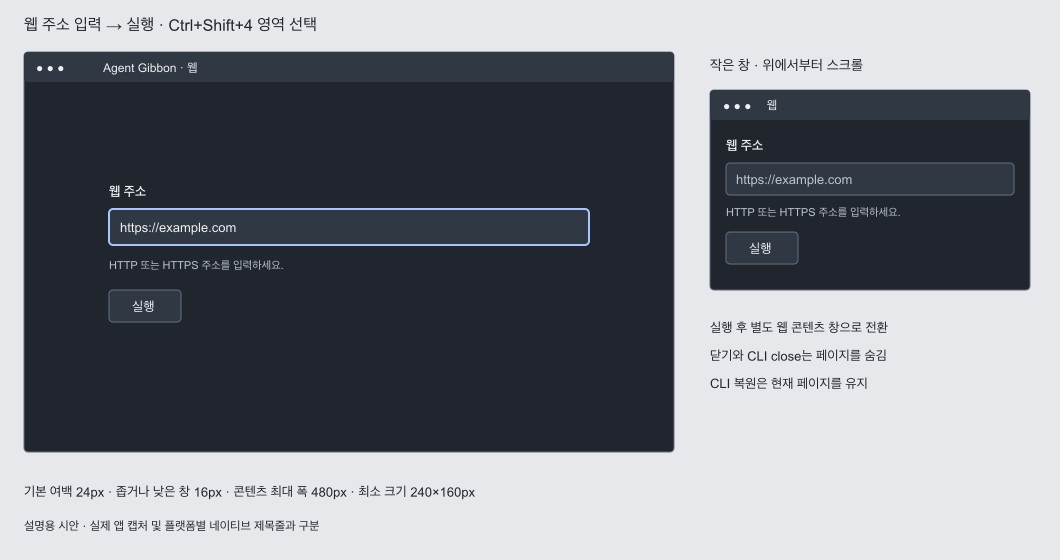
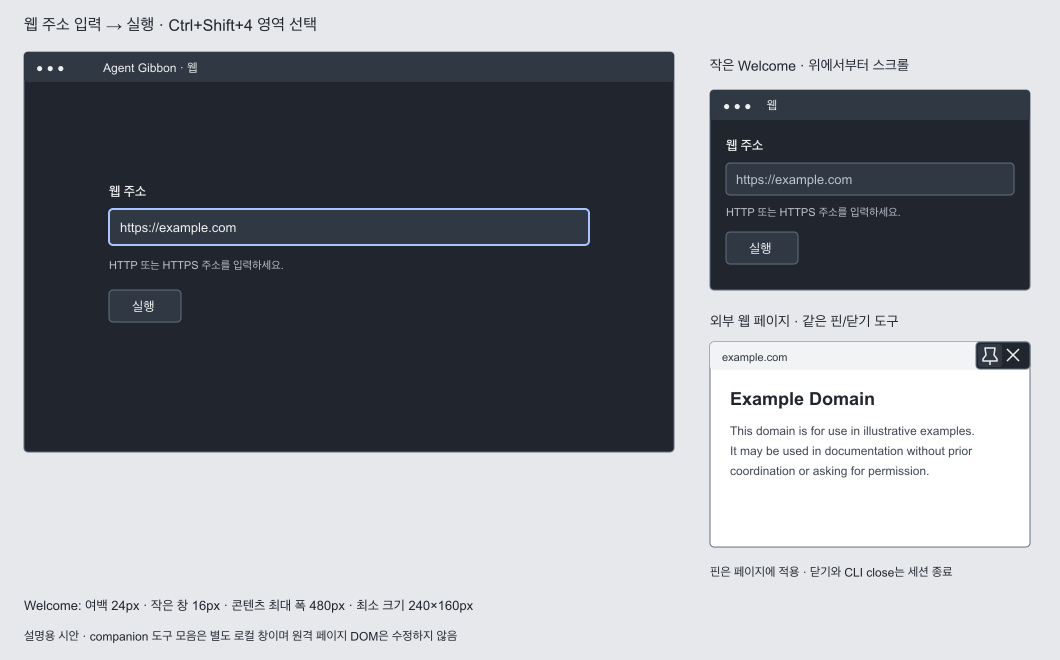
웹 창 핀 도구와 세션 종료 동작 추가
웹 Welcome과 외부 페이지에 로컬 companion 도구 모음을 제공하고 핀을 동기화한다. CLI·네이티브 닫기는 웹 세션과 연결 창을 종료한다. 로컬 WebView만 updater ACK를 수신하도록 권한과 안전성 검사를 갱신했다.

검증: npm test 통과, updater/web UI 테스트 통과, web Rust 단위 테스트 통과. 실앱 GUI는 별도 확인 필요.

diff --git a/ui/web.html b/ui/web.html
@@ -1,1 +1,1 @@
-<!doctype html><html lang="ko"><head><meta charset="utf-8"><meta name="viewport" content="width=device-width,initial-scale=1"><title>웹 시작</title><link rel="stylesheet" href="web.css"></head><body><main><form id="web-form"><label for="web-url">웹 주소</label><input id="web-url" type="url" placeholder="https://example.com" autocomplete="off" spellcheck="false" required aria-describedby="hint status"><p id="hint">HTTP 또는 HTTPS 주소를 입력하세요.</p><button id="run" type="submit">실행</button><p id="status" role="status" aria-live="polite"></p></form></main><script src="web.js"></script></body></html>
+<!doctype html><html lang="ko"><head><script src="updater-guard.js"></script><meta charset="utf-8"><meta name="viewport" content="width=device-width,initial-scale=1"><title>웹 시작</title><link rel="stylesheet" href="web.css"></head><body><main><form id="web-form"><label for="web-url">웹 주소</label><input id="web-url" type="url" placeholder="https://example.com" autocomplete="off" spellcheck="false" required aria-describedby="hint status"><p id="hint">HTTP 또는 HTTPS 주소를 입력하세요.</p><button id="run" type="submit">실행</button><p id="status" role="status" aria-live="polite"></p></form></main><script src="web.js"></script></body></html>

diff --git a/ui/web-toolbar.css b/ui/web-toolbar.css
@@ -1,0 +1,10 @@
+:root{color-scheme:dark;font:var(--font-ui)/var(--line-ui) -apple-system,BlinkMacSystemFont,"Segoe UI",sans-serif;color:#f0f0f0;background:transparent}
+*{box-sizing:border-box}
+html,body{width:100%;height:100%;margin:0;overflow:hidden;background:transparent}
+body{display:flex;justify-content:flex-end;align-items:flex-start;cursor:default}
+#toolbar{display:flex;gap:1px;padding:1px;border:1px solid #667080;border-radius:4px;background:#20252e;box-shadow:0 1px 4px rgb(0 0 0 / 24%)}
+button{display:inline-flex;align-items:center;justify-content:center;width:24px;height:23px;padding:2px;border:0;border-radius:var(--button-radius);color:inherit;background:transparent;cursor:pointer}
+button svg{width:var(--icon-size);height:var(--icon-size);fill:none;stroke:currentColor;stroke-width:1.7;stroke-linecap:round;stroke-linejoin:round}
+button:hover,button:focus-visible{background:#303844;outline:1px solid #a8c5ff;outline-offset:-1px}
+#pin[aria-pressed=true] svg path:first-child{fill:currentColor}
+#pin[aria-pressed=false] svg{transform:rotate(35deg)}

diff --git a/ui/web-toolbar.html b/ui/web-toolbar.html
@@ -1,0 +1,22 @@
+<!doctype html>
+<html lang="ko">
+<head>
+  <meta charset="utf-8">
+  <meta name="viewport" content="width=device-width,initial-scale=1">
+  <title>웹 도구</title>
+  <link rel="stylesheet" href="tokens.css">
+  <link rel="stylesheet" href="web-toolbar.css">
+  <script src="updater-guard.js"></script>
+</head>
+<body>
+  <div id="toolbar" role="toolbar" aria-label="웹 창 도구">
+    <button id="pin" aria-label="상단 고정" aria-pressed="true" title="상단 고정">
+      <svg viewBox="0 0 24 24" aria-hidden="true"><path d="M8 3h8l-1 7 4 4v2H5v-2l4-4-1-7Z"/><path d="M12 16v6"/></svg>
+    </button>
+    <button id="close" aria-label="웹 세션 닫기" title="웹 세션 닫기">
+      <svg viewBox="0 0 24 24" aria-hidden="true"><path d="m6 6 12 12M18 6 6 18"/></svg>
+    </button>
+  </div>
+  <script src="web-toolbar.js"></script>
+</body>
+</html>

diff --git a/ui/web-toolbar.js b/ui/web-toolbar.js
@@ -1,0 +1,18 @@
+(() => {
+  const invoke = window.gibbonInvoke || window.__TAURI__.core.invoke;
+  const pin = document.getElementById('pin');
+  const close = document.getElementById('close');
+  const report = error => { close.title = `웹 세션 처리 실패: ${String(error)}`; };
+  invoke('web_toolbar_info').then(info => {
+    pin.setAttribute('aria-pressed', String(info.always_on_top));
+  }).catch(report);
+  pin.addEventListener('click', async () => {
+    try {
+      const pinned = await invoke('web_toggle_pin');
+      pin.setAttribute('aria-pressed', String(pinned));
+    } catch (error) {
+      report(error);
+    }
+  });
+  close.addEventListener('click', () => invoke('web_close').catch(report));
+})();

diff --git a/src-tauri/src/web.rs b/src-tauri/src/web.rs
@@ -16,6 +16,15 @@ pub struct Windows(Mutex<BTreeMap<String, Record>>);
 fn err(e: impl std::fmt::Display) -> String {
     e.to_string()
 }
+fn toolbar_label(id: &str) -> String {
+    format!("webtoolbar-{id}")
+}
+fn web_id(label: &str) -> Option<&str> {
+    label
+        .strip_prefix("webview-")
+        .or_else(|| label.strip_prefix("webpage-"))
+        .or_else(|| label.strip_prefix("webtoolbar-"))
+}
 pub fn validate_url(input: &str) -> Result<tauri::Url, String> {
     let invalid = || "URL은 자격증명 없는 HTTP(S) 웹 주소여야 합니다".to_string();
     if input.is_empty()
@@ -86,7 +95,95 @@ fn show(w: &WebviewWindow) -> Result<(), String> {
     w.show().map_err(err)?;
     #[cfg(any(target_os = "macos", windows))]
     crate::focus::restore(w);
+    if let Some(id) = web_id(w.label()) {
+        if let Some(toolbar) = w.app_handle().get_webview_window(&toolbar_label(id)) {
+            sync_toolbar(w, &toolbar)?;
+        }
+    }
     Ok(())
+}
+
+fn sync_toolbar(parent: &WebviewWindow, toolbar: &WebviewWindow) -> Result<(), String> {
+    if !parent.is_visible().map_err(err)? || parent.is_minimized().map_err(err)? {
+        if toolbar.is_visible().map_err(err)? {
+            toolbar.hide().map_err(err)?;
+        }
+        return Ok(());
+    }
+    let parent_position = parent.inner_position().map_err(err)?;
+    let parent_size = parent.inner_size().map_err(err)?;
+    let toolbar_size = toolbar.outer_size().map_err(err)?;
+    let position = tauri::PhysicalPosition::new(
+        parent_position.x + parent_size.width as i32 - toolbar_size.width as i32,
+        parent_position.y,
+    );
+    if toolbar.outer_position().map_err(err)? != position {
+        toolbar.set_position(position).map_err(err)?;
+    }
+    let pinned = parent.is_always_on_top().map_err(err)?;
+    if toolbar.is_always_on_top().map_err(err)? != pinned {
+        toolbar.set_always_on_top(pinned).map_err(err)?;
+    }
+    if !toolbar.is_visible().map_err(err)? {
+        #[cfg(target_os = "macos")]
+        {
+            let ptr = toolbar.ns_window().map_err(err)?;
+            // SAFETY: Tauri owns the live companion window.
+            unsafe {
+                (&*(ptr as *const objc2_app_kit::NSWindow)).orderFrontRegardless();
+            }
+            crate::focus::restore(toolbar);
+        }
+        #[cfg(windows)]
+        crate::focus::show_without_focus(toolbar)?;
+        #[cfg(not(any(target_os = "macos", windows)))]
+        toolbar.show().map_err(err)?;
+    }
+    Ok(())
+}
+
+fn ensure_toolbar(app: &tauri::AppHandle, id: &str, parent: &WebviewWindow) -> Result<(), String> {
+    let label = toolbar_label(id);
+    if let Some(toolbar) = app.get_webview_window(&label) {
+        return sync_toolbar(parent, &toolbar);
+    }
+    crate::focus::remember(app, &label);
+    let toolbar =
+        tauri::WebviewWindowBuilder::new(app, &label, WebviewUrl::App("web-toolbar.html".into()))
+            .title(format!("웹 도구 — {id}"))
+            .inner_size(54.0, 27.0)
+            .decorations(false)
+            .transparent(true)
+            .resizable(false)
+            .visible(false)
+            .focused(false)
+            .skip_taskbar(true)
+            .accept_first_mouse(true)
+            .minimizable(false)
+            .maximizable(false)
+            .shadow(false)
+            .parent(parent)
+            .map_err(err)?
+            .build()
+            .map_err(err)?;
+    sync_toolbar(parent, &toolbar)
+}
+
+fn destroy_toolbar(app: &tauri::AppHandle, id: &str) -> Result<(), String> {
+    if let Some(toolbar) = app.get_webview_window(&toolbar_label(id)) {
+        toolbar.destroy().map_err(err)?;
+    }
+    Ok(())
+}
+
+pub fn geometry(window: &WebviewWindow) {
+    if let Some(id) = web_id(window.label()) {
+        if let Some(toolbar) = window.app_handle().get_webview_window(&toolbar_label(id)) {
+            if let Err(error) = sync_toolbar(window, &toolbar) {
+                eprintln!("웹 도구 모음 배치 실패: {error}");
+            }
+        }
+    }
 }
 pub fn create(
     app: &tauri::AppHandle,
@@ -117,6 +214,7 @@ pub fn create(
                 .get_webview_window(&r.label)
                 .ok_or("웹 창을 찾을 수 없습니다")?;
             show(&w)?;
+            ensure_toolbar(app, &id, &w)?;
             return inspect(app, &id);
         }
     }
@@ -136,6 +234,7 @@ pub fn create(
             .unwrap()
             .url = url.map(str::to_owned);
         show(w)?;
+        ensure_toolbar(app, &id, w)?;
         return inspect(app, &id);
     }
     crate::focus::remember(app, &label);
@@ -197,10 +296,74 @@ pub fn create(
         },
     );
     show(&w)?;
-    if let Some(p) = previous {
-        p.destroy().map_err(err)?;
+    if previous.is_some() {
+        destroy_toolbar(app, &id)?;
+        if let Some(p) = previous {
+            p.destroy().map_err(err)?;
+        }
     }
+    ensure_toolbar(app, &id, &w)?;
     inspect(app, &id)
+}
+
+pub fn close(app: &tauri::AppHandle, id: &str) -> Result<Value, String> {
+    let r = record(app, id)?;
+    let window = app
+        .get_webview_window(&r.label)
+        .ok_or("웹 창을 찾을 수 없습니다")?;
+    crate::stash::release(&window)?;
+    destroy_toolbar(app, id)?;
+    window.destroy().map_err(err)?;
+    app.state::<Windows>().0.lock().map_err(err)?.remove(id);
+    crate::tray::refresh(app)?;
+    Ok(
+        json!({"ok":true,"instance":crate::instance::current().id,"id":id,"kind":"web","visible":false,"closed":true}),
+    )
+}
+
+pub fn close_window(app: &tauri::AppHandle, label: &str) -> Result<Value, String> {
+    let id = web_id(label).ok_or("웹 창을 찾을 수 없습니다")?;
+    close(app, id)
+}
+
+#[tauri::command]
+pub fn web_toolbar_info(window: WebviewWindow) -> Result<Value, String> {
+    let id = window
+        .label()
+        .strip_prefix("webtoolbar-")
+        .ok_or("웹 도구 창이 아닙니다")?;
+    let record = record(window.app_handle(), id)?;
+    let owner = window
+        .app_handle()
+        .get_webview_window(&record.label)
+        .ok_or("웹 창을 찾을 수 없습니다")?;
+    Ok(json!({"id":id,"always_on_top":owner.is_always_on_top().map_err(err)?}))
+}
+
+#[tauri::command]
+pub fn web_toggle_pin(window: WebviewWindow) -> Result<bool, String> {
+    let id = window
+        .label()
+        .strip_prefix("webtoolbar-")
+        .ok_or("웹 도구 창이 아닙니다")?;
+    let record = record(window.app_handle(), id)?;
+    let owner = window
+        .app_handle()
+        .get_webview_window(&record.label)
+        .ok_or("웹 창을 찾을 수 없습니다")?;
+    let pinned = !owner.is_always_on_top().map_err(err)?;
+    owner.set_always_on_top(pinned).map_err(err)?;
+    window.set_always_on_top(pinned).map_err(err)?;
+    Ok(pinned)
+}
+
+#[tauri::command]
+pub fn web_close(window: WebviewWindow) -> Result<Value, String> {
+    let id = window
+        .label()
+        .strip_prefix("webtoolbar-")
+        .ok_or("웹 도구 창이 아닙니다")?;
+    close(window.app_handle(), id)
 }
 pub fn handle(app: &tauri::AppHandle, request: &Request) -> Result<Value, String> {
     if matches!(request.action, Action::Web)
@@ -222,11 +385,7 @@ pub fn handle(app: &tauri::AppHandle, request: &Request) -> Result<Value, String
         .ok_or("웹 창을 찾을 수 없습니다")?;
     match request.action {
         Action::Inspect => inspect(app, request.id()),
-        Action::Close => {
-            crate::stash::release(&w)?;
-            w.hide().map_err(err)?;
-            inspect(app, request.id())
-        }
+        Action::Close => close(app, request.id()),
         Action::Open => {
             if request.title.is_some()
                 || request.markdown.is_some()
@@ -270,6 +429,15 @@ pub async fn web_run(window: WebviewWindow, url: String) -> Result<Value, String
 #[cfg(test)]
 mod tests {
     use super::*;
+    #[test]
+    fn companion_toolbar_label_is_separate_from_remote_content() {
+        assert_eq!(toolbar_label("web-1"), "webtoolbar-web-1");
+        assert_eq!(web_id("webpage-web-1"), Some("web-1"));
+        assert_eq!(web_id("webview-web-1"), Some("web-1"));
+        assert_eq!(web_id("webtoolbar-web-1"), Some("web-1"));
+        assert_eq!(web_id("note-web-1"), None);
+    }
+
     #[test]
     fn navigation_validation_rejects_internal_and_credential_urls() {
         for url in [

diff --git a/src-tauri/src/main.rs b/src-tauri/src/main.rs
@@ -394,7 +394,13 @@ fn apply_with_presentation(
     if matches!(request.action, Action::Probe) {
         return Ok(telemetry::probe());
     }
-    if matches!(request.action, Action::Web) || web::contains(app, request.id()) {
+    let web_namespace = request.id().starts_with("web-")
+        && !app
+            .state::<AppNotes>()
+            .lock()
+            .map_err(|e| e.to_string())?
+            .contains_key(request.id());
+    if matches!(request.action, Action::Web) || web_namespace || web::contains(app, request.id()) {
         return web::handle(app, &request);
     }
     let _timing = telemetry::Timing::new(match request.action {
@@ -574,6 +580,9 @@ fn serve(endpoint: ipc::Endpoint, initial_open: bool) -> Result<(), String> {
                     local_trace::local_flow_stage,
                     snapshot,
                     web::web_run,
+                    web::web_toolbar_info,
+                    web::web_toggle_pin,
+                    web::web_close,
                     terminal::terminal_start,
                     terminal::terminal_write,
                     terminal::terminal_resize,
@@ -662,9 +671,28 @@ fn serve(endpoint: ipc::Endpoint, initial_open: bool) -> Result<(), String> {
                 return;
             }
             if win.label().starts_with("webview-") || win.label().starts_with("webpage-") {
+                match event {
+                    tauri::WindowEvent::Moved(_) | tauri::WindowEvent::Resized(_) => {
+                        if let Some(window) = win.app_handle().get_webview_window(win.label()) {
+                            web::geometry(&window);
+                        }
+                    }
+                    tauri::WindowEvent::CloseRequested { api, .. } => {
+                        api.prevent_close();
+                        if let Err(error) = web::close_window(win.app_handle(), win.label()) {
+                            eprintln!("웹 세션을 종료하지 못했습니다: {error}");
+                        }
+                    }
+                    _ => (),
+                }
+                return;
+            }
+            if win.label().starts_with("webtoolbar-") {
                 if let tauri::WindowEvent::CloseRequested { api, .. } = event {
                     api.prevent_close();
-                    let _ = win.hide();
+                    if let Err(error) = web::close_window(win.app_handle(), win.label()) {
+                        eprintln!("웹 세션을 종료하지 못했습니다: {error}");
+                    }
                 }
                 return;
             }
@@ -1105,7 +1133,7 @@ fn main() {
         )
     } else if args == ["--help"] || args == ["-h"] {
         Ok(
-            json!({"ok":true,"usage":"agent-gibbon web [--id web-ID] [--url URL]; agent-gibbon diagnostics|diagnostics-probe; open|update [--id ID] [--color #RRGGBB] [--title TEXT] [--status TEXT] [--change-mode diff|replace] [--highlight none|newly-completed] [--file PATH|- | --markdown TEXT]; agent-gibbon close|inspect [--id ID]; agent-gibbon list","note":"open/web은 앱을 시작하거나 창을 생성·복원합니다. web의 ID 생략은 새 웹 창, open의 ID 생략은 main이며 close는 숨기기입니다. 색상은 #RRGGBB입니다."}),
+            json!({"ok":true,"usage":"agent-gibbon web [--id web-ID] [--url URL]; agent-gibbon diagnostics|diagnostics-probe; open|update [--id ID] [--color #RRGGBB] [--title TEXT] [--status TEXT] [--change-mode diff|replace] [--highlight none|newly-completed] [--file PATH|- | --markdown TEXT]; agent-gibbon close|inspect [--id ID]; agent-gibbon list","note":"open/web은 앱을 시작하거나 창을 생성·복원합니다. web의 ID 생략은 새 웹 창, open의 ID 생략은 main이며 close는 텍스트 메모·터미널을 숨기고 웹 세션을 종료합니다. 색상은 #RRGGBB입니다."}),
         )
     } else {
         cli(&args)

diff --git a/src-tauri/src/updater.rs b/src-tauri/src/updater.rs
@@ -890,7 +890,15 @@ fn install(app: &tauri::AppHandle, automatic: bool) -> Result<(), String> {
         crate::telemetry::checkpoint("updater.prepare");
         let epoch = on_main(app, |app| {
             safe_native(&app)?;
-            let labels: Vec<String> = app.webview_windows().keys().cloned().collect();
+            // Remote page WebViews cannot invoke the local updater guard. Keep
+            // them outside the acknowledgement barrier; local web Welcome and
+            // companion toolbars still participate through the local guard.
+            let labels: Vec<String> = app
+                .webview_windows()
+                .keys()
+                .filter(|label| !label.starts_with("webpage-"))
+                .cloned()
+                .collect();
             let epoch = {
                 let state = app.state::<Updates>();
                 let mut safety = state.safety.lock().map_err(err)?;

diff --git a/.agents/skills/agent-gibbon/SKILL.md b/.agents/skills/agent-gibbon/SKILL.md
@@ -113,6 +113,6 @@ MD
 "/Applications/Agent Gibbon.app/Contents/MacOS/agent-gibbon" close --id web-reference
 ```
 
-개발 작업은 지정 워크트리의 `scripts/agent-gibbon-dev`를 사용한다. `web`은 필요하면 앱을 시작한다. URL을 생략한 기존 ID의 `web` 또는 `open`은 현재 페이지를 복원하며 `close`와 네이티브 닫기는 숨기기다. 웹 창은 `list`에도 포함되고 앱 재시작 후에는 보존하지 않는다. 다른 메모와 충돌하는 ID를 덮어쓰지 않는다. 웹 창에 메모 본문·색상·상태·제목 옵션을 보내지 않는다.
+웹 창은 메모와 같은 핀/닫기 도구 모음을 표시한다. 핀은 웹페이지에 적용되고 `close`와 네이티브 닫기는 웹 세션을 종료해 `list`와 업데이트 보류에서 제거한다. 개발 작업은 지정 워크트리의 `scripts/agent-gibbon-dev`를 사용한다. `web`은 필요하면 앱을 시작한다. URL을 생략한 기존 ID의 `web` 또는 `open`은 현재 페이지를 복원한다. 재시작 후 복원 여부는 실행 중인 버전의 지원 기능을 따른다. 다른 메모와 충돌하는 ID를 덮어쓰지 않는다. 웹 창에 메모 본문·색상·상태·제목 옵션을 보내지 않는다.
 
 Ctrl+Shift+4/트레이의 영역 웹 창은 영역 선택 뒤 URL 입력과 명시적인 실행을 제공한다. HTTP(S) 주소만 허용하고 앱 내부 주소·자격증명 포함 주소·제어문자를 거절한다. 팝업·다운로드와 외부 웹 콘텐츠의 앱 특권 IPC 접근은 차단한다. 새 서버를 실행하지 않는다. 웹페이지 자체의 로그인·정보 전송·버튼 조작을 웹 창 열기 요청만으로 대신 수행하지 않는다.

diff --git a/docs/verification/issue119-web-session.md b/docs/verification/issue119-web-session.md
@@ -1,0 +1,15 @@
+# #119 웹 세션 도구 모음 검증
+
+## 구현
+
+- 웹 Welcome과 외부 웹 페이지에 부모 창에 연결된 로컬 핀/닫기 companion 창을 추가했다. 이동·크기 변경 시 위치를 맞추고, 숨김·최소화 상태도 부모와 동기화한다.
+- 핀은 부모 웹 창과 도구 모음의 상단 고정을 함께 변경한다. CLI `close`, 네이티브 닫기, 도구 모음 닫기는 웹 세션과 두 창을 종료한다.
+- 외부 페이지 DOM은 수정하지 않는다. 로컬 Welcome과 도구 모음만 업데이트 준비 이벤트를 수신하며, 외부 `webpage-*` 레이블은 권한에서 제외한다.
+
+## 검증
+
+- `node --test tests/web-welcome.test.mjs tests/updater-notice.test.mjs` — 통과.
+- `cargo test --manifest-path src-tauri/Cargo.toml web::tests` — 로컬 unit tests 통과.
+- 디자인 시안 SVG를 PNG로 렌더링하고 확인했다.
+- macOS Intel 실앱 GUI 확인: 워크트리 `/Users/egoing/.codex/worktrees/imac-102/agent-gibbon`, 개발 인스턴스 `dev-08207552ee001b9318f23e11`, debug PID `74686`, 메모 `imac119-origin`의 inspect 본문 표식으로 출처를 확인했다. 네이티브 창 제목 `웹 도구 — web-imac119-test`에서 상단 고정을 눌러 `always_on_top`이 `true → false`로 바뀌는 것을 확인하고, 웹 세션 닫기 후 `list`에서 ID가 사라지는 것을 확인했다.
+- 여러 화면·플랫폼에서 companion 위치/포커스, Welcome 페이지의 네이티브 종료는 별도 미검증이다.
